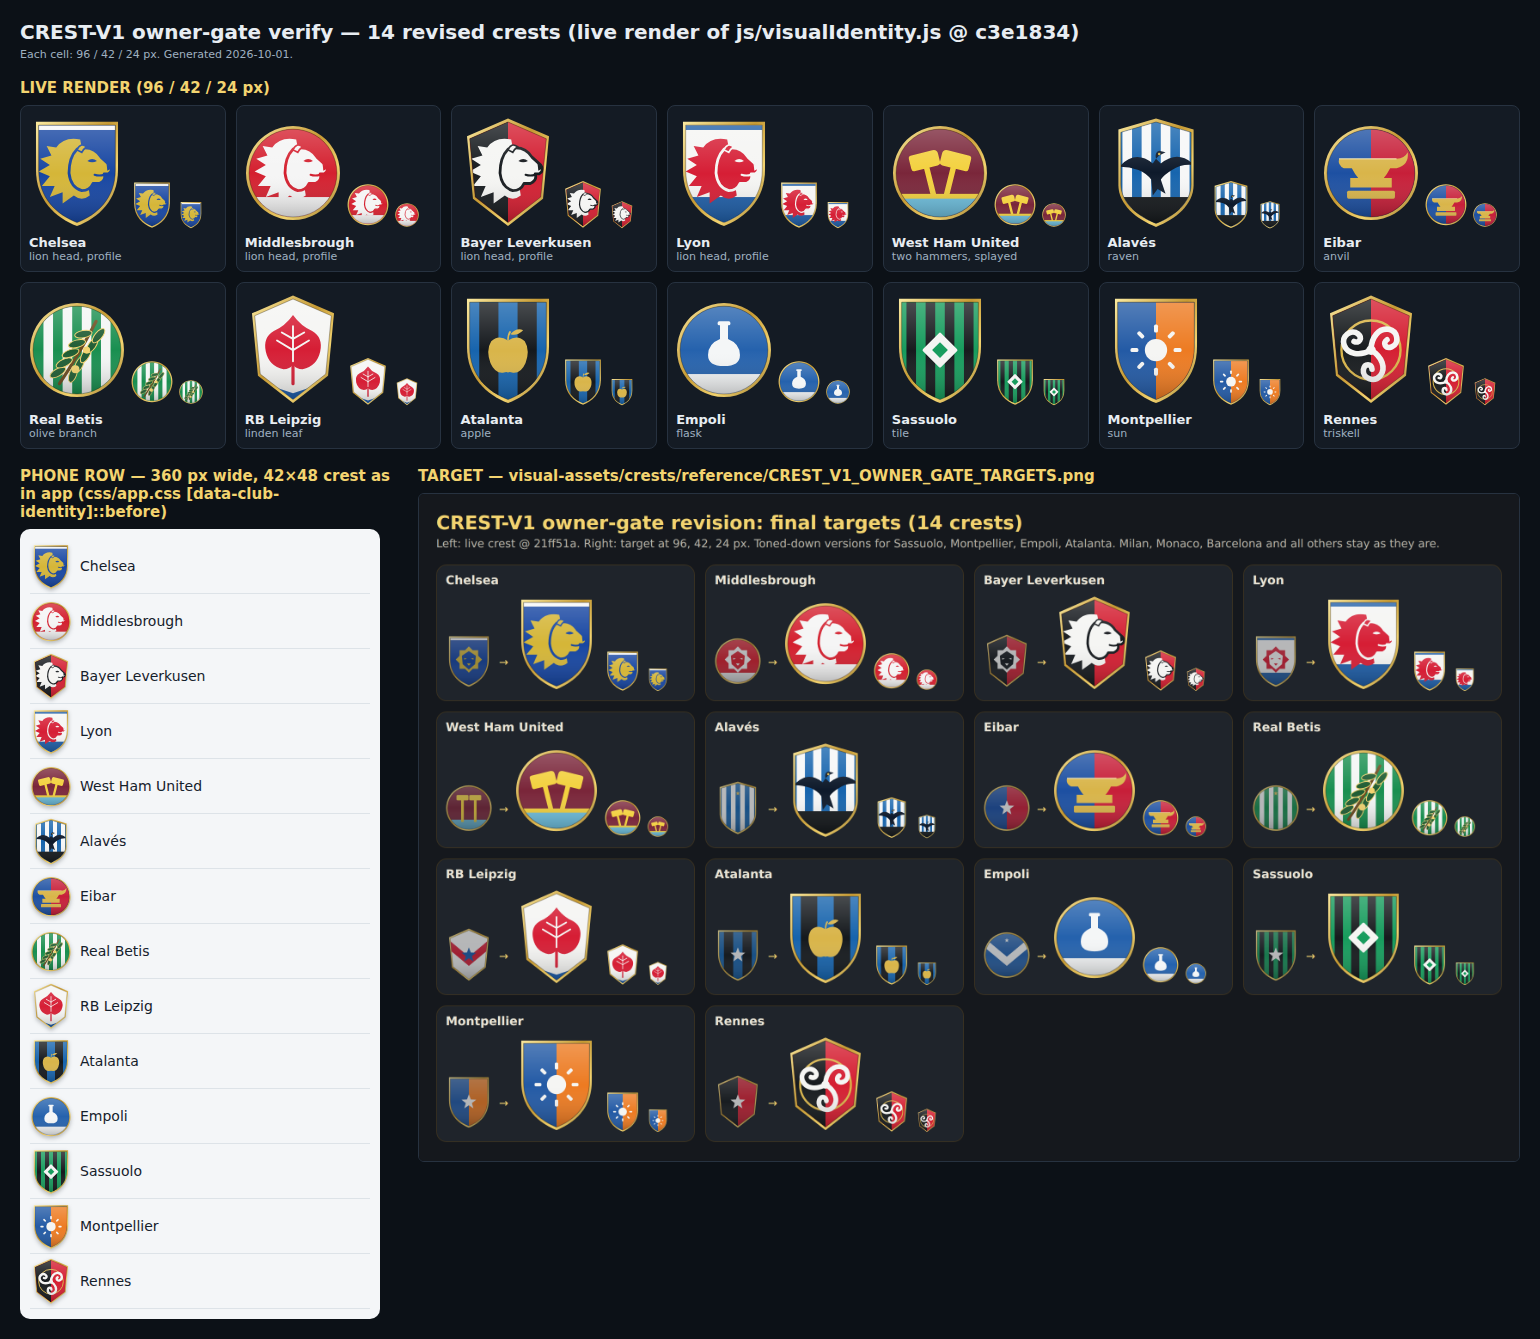
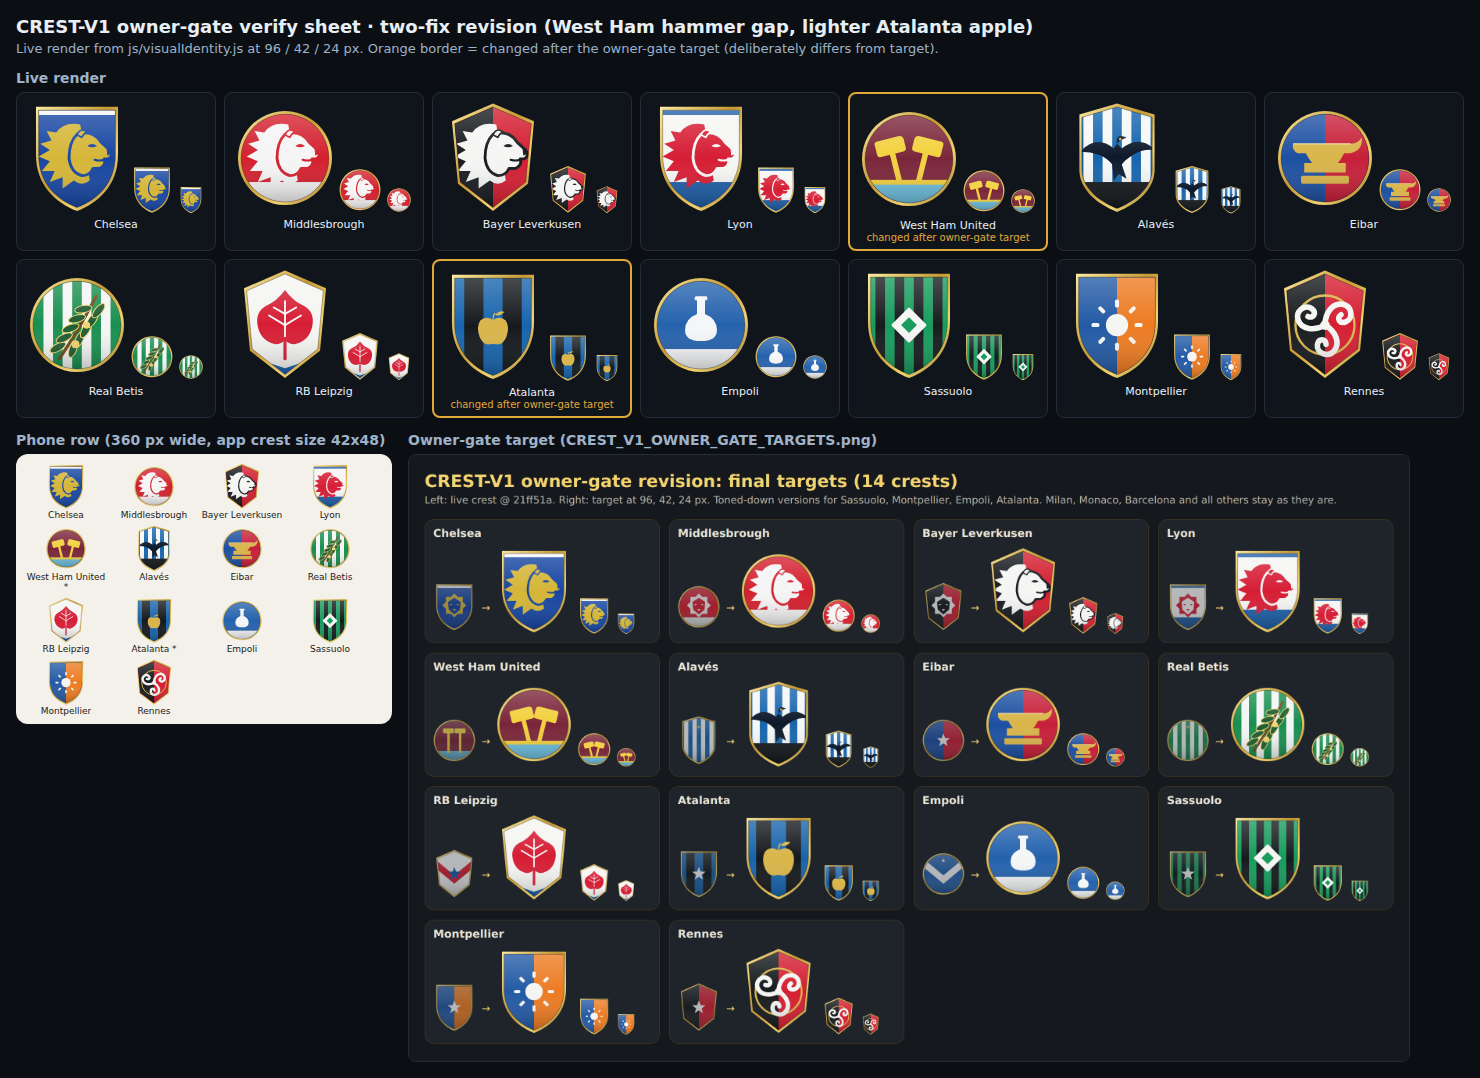
qa: CREST-V1 two-fix verify sheet and Sol review update
Regenerated OWNER_GATE_VERIFY_SHEET.png at f1cfff4 (West Ham and
Atalanta labelled as changed after the owner-gate target). Sol file:
14/14 PASS, contracts green, byte-identical vs 997f3f3 (0 recipes,
motifs hammers and apple only). ACCEPTED_CREST_SHA candidate: f1cfff4.

Claude-Session: https://claude.ai/code/session_011aBvZbjLGw7cA4JpNqVxSr

diff --git a/claude/handoffs/FOR_SOL_5.6_CREST_V1_OWNER_GATE_REVIEW_2026-10-01.md b/claude/handoffs/FOR_SOL_5.6_CREST_V1_OWNER_GATE_REVIEW_2026-10-01.md
@@ -1,6 +1,10 @@
 # FOR SOL 5.6: CREST-V1 owner-gate review (2026-10-01)
 
-Branch `claude-cloud/crest-v1`. Revision under test: `c3e1834` (parent `de515de`). Verify brief: `claude/handoffs/CC_CREST_V1_OWNER_GATE_VERIFY_BRIEF_2026-10-01.md` (commit `f19a85e`). No fix commits were made in this session.
+Branch `claude-cloud/crest-v1`. Revision under test: `f1cfff4` (two-fix commit, parent `f57944d`, which is the brief-only commit on top of `997f3f3`). Owner-gate revision: `c3e1834`. Briefs: `claude/handoffs/CC_CREST_V1_OWNER_GATE_VERIFY_BRIEF_2026-10-01.md` (commit `f19a85e`) and `claude/handoffs/CC_CREST_V1_TWO_FIX_BRIEF_2026-10-01.md` (commit `f57944d`).
+
+Fix commit: `f1cfff4` `fix: CREST-V1 West Ham hammer gap, lighter Atalanta apple` changes only the `hammers` and `apple` entries of `CREST_MOTIFS` in `js/visualIdentity.js`, plus the resynced inlined copy in `visual-assets/crests/CREST_REVIEW_STANDALONE.html`.
+- `hammers`: groups moved from `translate(42 58)` / `translate(78 58)` to `translate(38 58)` / `translate(82 58)`. Rotation (±14°) and size unchanged.
+- `apple`: the same one-colour group (body, stem, leaf) now carries `transform="translate(60 76) scale(.76) translate(-60 -76)"`. No gradient, no highlight, no extra shape.
 
 ## 1. What changed and why
 Nik's owner-gate picks, applied in `c3e1834` (`js/visualIdentity.js` + regenerated standalone page and QA):
@@ -10,52 +14,66 @@ Nik's owner-gate picks, applied in `c3e1834` (`js/visualIdentity.js` + regenerat
 - Four of these are toned down (flat, one colour, small): Sassuolo, Montpellier, Empoli, Atalanta.
 - Juventus keeps its star by owner choice (not touched).
 
+Then, in `f1cfff4`, the two FAIL rows from the first pass were fixed: the West Ham hammer heads no longer touch, and the Atalanta apple is now lighter than the raven. These two crests now deliberately differ from the owner-gate target sheet.
+
 ## 2. Per-crest verdicts (14)
-Sheet: `qa/crest-v1/OWNER_GATE_VERIFY_SHEET.png` (live render at 96/42/24 px, 360 px phone row at the app's 42x48 crest size, target sheet embedded). Motif area = filled area in viewBox units² (motif rendered alone, alpha > 50%).
+Sheet: `qa/crest-v1/OWNER_GATE_VERIFY_SHEET.png`, regenerated at `f1cfff4` (live render at 96/42/24 px, 360 px phone row at the app's 42x48 crest size, target sheet embedded below). West Ham and Atalanta have an orange border and the label "changed after owner-gate target". Motif area = filled area in viewBox units² (motif rendered alone at 4x, alpha > 50%, divided by 16). Gap = empty columns between the left and right motif halves, minimum over all rows, at 4x, divided by 4.
 
 | Crest | Direction | Verdict | Evidence |
 |---|---|---|---|
-| Chelsea | lion head, profile | PASS | gold profile head facing right, mane behind, no body; matches target at all sizes |
-| Middlesbrough | lion head, profile | PASS | white profile head on red roundel; matches target |
-| Bayer Leverkusen | lion head, profile | PASS | white profile head on black/red split; matches target |
-| Lyon | lion head, profile | PASS | red profile head on white/blue; matches target |
-| West Ham United | two hammers, splayed apart | FAIL (minor) | handles do not intersect (gap at the base), but the two heads touch at one point on the centre line (x=60, y≈57; 2 overlapping px at 4x render). Reads as "heads touching" at 96 and 42 px. Matches target. Not fixed: geometry change |
-| Alavés | raven | PASS | navy raven, wings spread, on blue/white stripes; matches target |
-| Eibar | anvil | PASS | gold anvil on blue/red roundel; reads as anvil at 24 px |
-| Real Betis | olive branch | PASS | olive branch with leaves and two olives on green/white stripes |
-| RB Leipzig | linden leaf | PASS | red linden leaf with veins and stem on white shield |
-| Atalanta | apple, toned down | FAIL (weight) | flat, one colour (gold), no gradient: PASS. But area 1935 vs raven 1565 (lion 4543), so it is not lighter than the raven. Matches target. Not fixed: needs resize |
-| Empoli | flask, toned down | PASS | one colour (white), no gradient, area 1353 (< raven 1565, < lion 4543) |
-| Sassuolo | tile, toned down | PASS | one colour + inner square only, no gradient, area 1020 |
-| Montpellier | sun, toned down | PASS | one colour (white), no gradient, area 991 |
-| Rennes | triskell | PASS | white triskell in a ring on black/red shield |
+| Chelsea | lion head, profile | PASS | gold profile head facing right, mane behind, no body; unchanged, matches target at all sizes |
+| Middlesbrough | lion head, profile | PASS | white profile head on red roundel; unchanged, matches target |
+| Bayer Leverkusen | lion head, profile | PASS | white profile head on black/red split; unchanged, matches target |
+| Lyon | lion head, profile | PASS | red profile head on white/blue; unchanged, matches target |
+| West Ham United | two hammers, splayed apart | PASS (fixed) | gap between heads: before 0 (touching at x=60, 12 rows at 4x); after 7.75 units = 6.5% of 120 (closest at y≈56.75), 0 rows touch the centre line. Handles still apart, not crossed; motif bbox x 17–102.75, inside the roundel. Reads as two separate hammers at 96, 42 and 24 px |
+| Alavés | raven | PASS | navy raven, wings spread, on blue/white stripes; unchanged, matches target |
+| Eibar | anvil | PASS | gold anvil on blue/red roundel; unchanged, reads as anvil at 24 px |
+| Real Betis | olive branch | PASS | olive branch with leaves and two olives on green/white stripes; unchanged |
+| RB Leipzig | linden leaf | PASS | red linden leaf with veins and stem on white shield; unchanged |
+| Atalanta | apple, toned down | PASS (fixed) | flat, one colour (gold), no gradient. Area: before 1935, after 1120 = 71.6% of raven (1565), above sun (991). Reads as an apple (body, stem, leaf) at 42 px; still visible at 24 px |
+| Empoli | flask, toned down | PASS | one colour (white), no gradient, area 1353 (< raven 1565, < lion 4543); unchanged |
+| Sassuolo | tile, toned down | PASS | one colour + inner square only, no gradient, area 1020; unchanged |
+| Montpellier | sun, toned down | PASS | one colour (white), no gradient, area 991; unchanged |
+| Rennes | triskell | PASS | white triskell in a ring on black/red shield; unchanged |
+
+Motif areas recomputed at `f1cfff4` (same method): raven 1565, lion 4543, flask 1353, tile 1020, sun 991, apple 1120 (was 1935). All unchanged values reproduce the first pass exactly.
 
 Note: every crest SVG (all 98) carries the shared frame gradients (gold rim and sheen, `visualIdentity.js:347-348`); the motifs above use no gradient.
 
-## 3. Contract results
+## 3. Contract results (at `f1cfff4`)
 | Command | Exit | Key output |
 |---|---|---|
 | `node tests/contracts/crest-v1-identity-contracts.cjs` | 0 | PASS: 98 recipes, 98 unique crests, 5 league marks, 28 ids unique, 8 hostile names fall back |
 | `node tests/contracts/static-app-release-contracts.cjs` | 0 | PASS v1.9.1/1.9.1-r46; startup 162545/37457 (no budget issue) |
 | `npm run test:contracts` | 0 | POS10 selected deterministic census 94/94 PASS |
 | Playwright `file://` load: `CREST_REVIEW.html`, `CREST_REVIEW_STANDALONE.html`, both with `?strip=1` | n/a | each: 98 club cards, 5 league cards, 0 console errors, 0 pageerror; strip view 98 strips |
-| 14 crest SVGs | n/a | all start with `<svg`; no `<text`, `<image`, `undefined`, `data:`, external `href`, or club name |
+| 14 crest SVGs | n/a | all start with `<svg`; no `<text`, `<image`, `undefined`, or club name |
 | All 98 crest SVGs | n/a | 0 with `<image`, `data:` or external `href` |
-| Standalone sync (2nd `<script>` block vs `js/visualIdentity.js`) | diff empty | identical |
-| Raster files with "crest" in path | n/a | only `visual-assets/crests/qa/*` (5) and `visual-assets/crests/reference/*` (2), plus the new `qa/crest-v1/OWNER_GATE_VERIFY_SHEET.png` |
+| Standalone sync (2nd `<script>` block, wrapping newlines stripped, vs `js/visualIdentity.js`) | diff empty | identical |
+| Raster files with "crest" in path | n/a | `qa/crest-v1/OWNER_GATE_VERIFY_SHEET.png`, `visual-assets/crests/qa/*` (5: `owner-gate-rev-14`, `phone-360x640`, `phone-375x553`, `review-1280-full`, `small-size-strip-24-42-96`) and `visual-assets/crests/reference/*` (2). No new raster files |
 
-## 4. Byte-identical check vs `de515de`
-- `CLUB_CREST_RECIPES`: 98 compared, 14 differ, exactly the 14 targeted (Chelsea, Middlesbrough, West Ham United, Alavés, Eibar, Real Betis, Bayer Leverkusen, RB Leipzig, Atalanta, Empoli, Sassuolo, Lyon, Montpellier, Rennes). 84 untouched, including Milan, Monaco, Barcelona and Juventus.
-- `CREST_MOTIFS`: 60 old, 69 new; 12 differ: `lion`, `hammers`, `thistle` (trailing comma only, verified equal after stripping it) and 9 added (`raven`, `anvil`, `olive`, `linden`, `apple`, `flask`, `tile`, `sun`, `triskell`). 57 unchanged.
-- `LEAGUE_MARK_RECIPES` and `LEAGUE_FLAGS`: identical.
+Not regenerated (per brief): the older QA shots in `visual-assets/crests/qa/` still show the pre-fix West Ham and Atalanta.
+
+## 4. Byte-identical check vs `997f3f3`
+Script: parse `CLUB_CREST_RECIPES` and `CREST_MOTIFS` from `git show 997f3f3:js/visualIdentity.js` and the working file (one entry per key) and list keys whose text differs; compare `LEAGUE_MARK_RECIPES` and `LEAGUE_FLAGS` as whole blocks. Output:
+
+```
+CLUB_CREST_RECIPES: old=98 new=98 differ=0 []
+CREST_MOTIFS: old=69 new=69 differ=2 ['hammers', 'apple']
+LEAGUE_MARK_RECIPES: identical=True
+LEAGUE_FLAGS: identical=True
+```
+
+All 98 recipes are identical, including West Ham United and Atalanta, and Milan, Monaco, Barcelona and Juventus. `git diff 997f3f3 f1cfff4 -- js/visualIdentity.js` is 2 lines changed (the two motif lines).
 
 ## 5. Head
-- Crest code last changed at `c3e1834`. This file and the sheet are committed together as the last commit, so the SHA named below is the commit just before it: `f19a85e` (brief-only commit on top of `c3e1834`; crest code is identical to `c3e1834`).
+- Crest code last changed at `f1cfff4cc79278ac1f93cd4bff58700eadd58cf9` (`f1cfff4`). This file and the regenerated sheet are committed together as the final commit on top of it, so the SHA named below is the code-fix commit: a commit cannot contain its own SHA, and the final commit changes no crest code.
 - Sheet: `qa/crest-v1/OWNER_GATE_VERIFY_SHEET.png`.
 
 ## 6. Larger defects (noted only, not fixed)
-- West Ham United: hammer heads touch at the centre line. Suggested fix: move the groups out by about 1.5 units (`translate(40.5 58)` / `translate(79.5 58)`) so the heads clear. Nik's call, since the target shows the same contact.
-- Atalanta: the apple is "toned down" in colour but by filled area it is heavier than the raven (1935 vs 1565). If Nik wants it lighter, scale the apple to about 0.85 around its centre. The target shows the current size.
+- None open. The West Ham hammer contact and the Atalanta apple weight from the first pass are fixed in `f1cfff4` (see section 2).
+- New: West Ham and Atalanta now differ from `CREST_V1_OWNER_GATE_TARGETS.png` on purpose (hammers further apart, apple smaller). Nik's final look should confirm these two against the sheet.
+- The older QA shots in `visual-assets/crests/qa/` were not regenerated and show the pre-fix versions of these two crests.
 
 ## 7. Question
-"OK to freeze ACCEPTED_CREST_SHA = f19a85e after Nik's final look?"
+"OK to freeze ACCEPTED_CREST_SHA = f1cfff4 after Nik's final look?"
